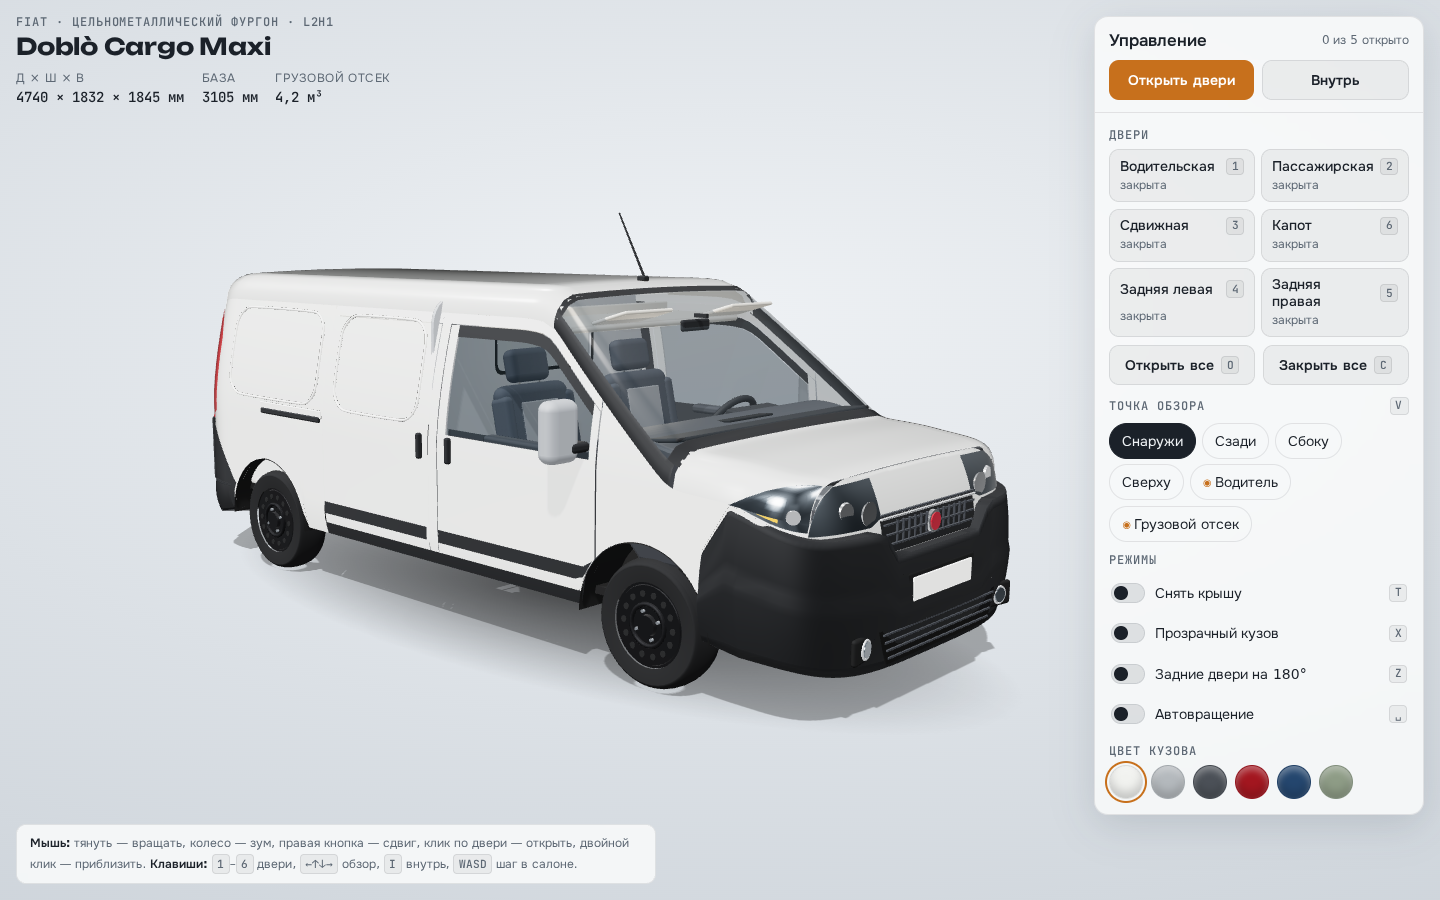
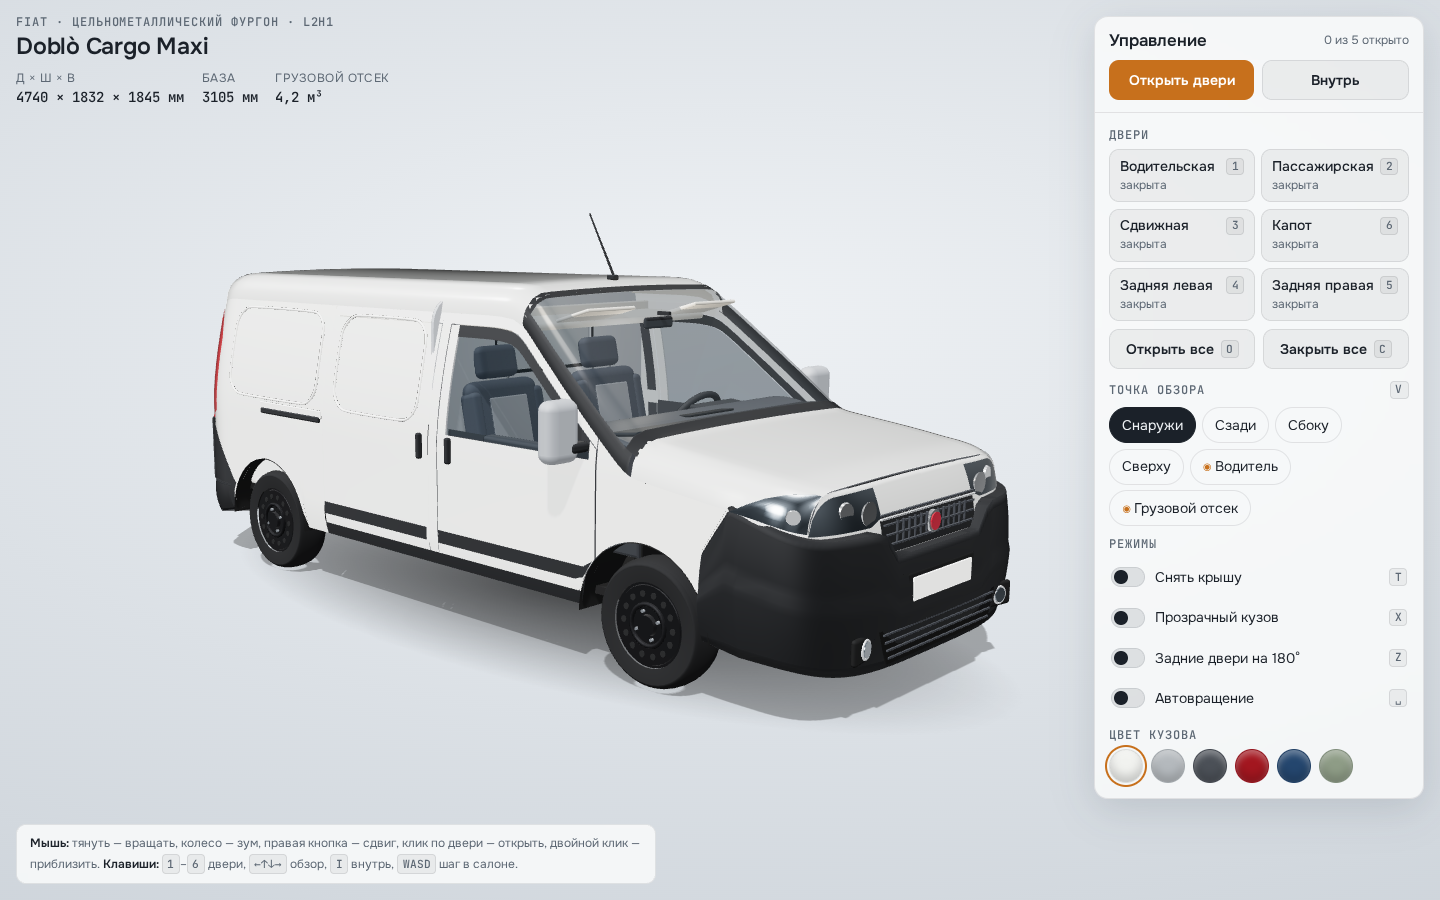
Move windshield, bonnet and cab to blueprint positions
The windshield is longer and more raked (2.9–3.72 m from the rear),
the bonnet shorter and slightly lower at the nose. The cab interior,
overhead shelf and interior viewpoints move back with it.

Claude-Session: https://claude.ai/code/session_01WEnvUqq9Q1ewvEPp3gbKib

diff --git a/js/car.js b/js/car.js
@@ -66,12 +66,12 @@ const topLine = smoothProfile(
   [
     [0.0, 1.815],
     [0.14, 1.842],
-    [2.95, 1.852],
-    [3.1, 1.835],
-    [3.97, 1.15],
-    [4.25, 1.135],
-    [4.6, 1.095],
-    [4.76, 1.04],
+    [2.72, 1.852],
+    [2.88, 1.835],
+    [3.72, 1.17],   // низ лобового стекла (по чертежу ~1,1 м от носа)
+    [4.1, 1.125],
+    [4.5, 1.075],
+    [4.76, 1.01],
   ],
   0.05,
   -0.1,
@@ -423,6 +423,8 @@ export function buildCar(M) {
   };
 
   const doors = {};
+  const X_RF = 2.9;  // передняя кромка крыши (верх лобового стекла)
+  const X_CW = 3.72; // стык лобового стекла с капотом
 
   // Выштамповка большой прямоугольной панели на глухой боковине (как на фото Doblò Cargo):
   // рельефный контур со скруглёнными углами, проложенный по поверхности кузова.
@@ -512,35 +514,35 @@ export function buildCar(M) {
   }
 
   // ----- крыша, лобовое стекло, капот
-  mesh(topGeo({ x0: 0, x1: 3.14, nu: 30, nv: 30 }), M.paint, roof);
+  mesh(topGeo({ x0: 0, x1: X_RF + 0.02, nu: 30, nv: 30 }), M.paint, roof);
   mesh(topGeo({ x0: 0.06, x1: X_B2 - 0.06, off: -0.03, s0: -0.93, s1: 0.93, nu: 10, nv: 20 }), M.paintInner, roof);
-  mesh(topGeo({ x0: 2.55, x1: 3.12, off: -0.03, s0: -0.93, s1: 0.93, nu: 6, nv: 20 }), M.headliner, roof);
-  mesh(topGeo({ x0: 3.14, x1: 3.95, s0: -0.9, s1: 0.9, nu: 20, nv: 24 }), M.glass, body, false);
-  mesh(topGeo({ x0: 3.12, x1: 3.97, s0: -1, s1: -0.9, nu: 20, nv: 4 }), M.plastic);
-  mesh(topGeo({ x0: 3.12, x1: 3.97, s0: 0.9, s1: 1, nu: 20, nv: 4 }), M.plastic);
-  mesh(topGeo({ x0: 3.12, x1: 3.16, s0: -0.9, s1: 0.9, nu: 1, nv: 24, off: 0.001 }), M.plastic);
-  mesh(topGeo({ x0: 3.93, x1: 4.0, s0: -0.9, s1: 0.9, nu: 2, nv: 24, off: 0.002 }), M.plastic);
+  mesh(topGeo({ x0: X_B2 - 0.06, x1: X_RF, off: -0.03, s0: -0.93, s1: 0.93, nu: 6, nv: 20 }), M.headliner, roof);
+  mesh(topGeo({ x0: X_RF + 0.02, x1: X_CW - 0.02, s0: -0.9, s1: 0.9, nu: 20, nv: 24 }), M.glass, body, false);
+  mesh(topGeo({ x0: X_RF, x1: X_CW, s0: -1, s1: -0.9, nu: 20, nv: 4 }), M.plastic);
+  mesh(topGeo({ x0: X_RF, x1: X_CW, s0: 0.9, s1: 1, nu: 20, nv: 4 }), M.plastic);
+  mesh(topGeo({ x0: X_RF, x1: X_RF + 0.04, s0: -0.9, s1: 0.9, nu: 1, nv: 24, off: 0.001 }), M.plastic);
+  mesh(topGeo({ x0: X_CW - 0.04, x1: X_CW + 0.03, s0: -0.9, s1: 0.9, nu: 2, nv: 24, off: 0.002 }), M.plastic);
   // антенна над лобовым стеклом
   {
-    const p = topPoint(3.0, 0, 0, new THREE.Vector3());
+    const p = topPoint(X_RF - 0.12, 0, 0, new THREE.Vector3());
     const ant = mesh(new THREE.CylinderGeometry(0.004, 0.007, 0.4, 8), M.plastic, roof);
-    ant.position.set(2.92, p.y + 0.18, 0);
+    ant.position.set(X_RF - 0.2, p.y + 0.18, 0);
     ant.rotation.z = 0.5;
-    box(0.06, 0.03, 0.04, 0.01, M.plastic, 3.0, p.y + 0.01, 0, roof);
+    box(0.06, 0.03, 0.04, 0.01, M.plastic, X_RF - 0.12, p.y + 0.01, 0, roof);
   }
 
   // капот — открывается
   {
     const pivot = new THREE.Group();
-    const px = 3.99;
+    const px = X_CW + 0.02;
     const py = topLine(px);
     pivot.position.set(px, py, 0);
     const inner = new THREE.Group();
     inner.position.set(-px, -py, 0);
     pivot.add(inner);
-    const hood = mesh(topGeo({ x0: 3.99, x1: NOSE_SEAM, nu: 24, nv: 30 }), M.paint, inner);
+    const hood = mesh(topGeo({ x0: X_CW + 0.02, x1: NOSE_SEAM, nu: 24, nv: 30 }), M.paint, inner);
     hood.userData.part = true;
-    const under = mesh(topGeo({ x0: 4.03, x1: NOSE_SEAM - 0.03, off: -0.025, s0: -0.9, s1: 0.9, nu: 12, nv: 16 }), M.plasticMid, inner);
+    const under = mesh(topGeo({ x0: X_CW + 0.06, x1: NOSE_SEAM - 0.03, off: -0.025, s0: -0.9, s1: 0.9, nu: 12, nv: 16 }), M.plasticMid, inner);
     body.add(pivot);
     doors.hood = {
       id: 'hood', name: 'Капот', key: '6', object: pivot, max: 1,
@@ -818,7 +820,7 @@ export function buildCar(M) {
   }
 
   // моторный щит
-  box(0.05, 0.6, 1.62, 0, M.rubber, 3.97, 0.72, 0, interior);
+  box(0.05, 0.6, 1.62, 0, M.rubber, X_CW - 0.02, 0.72, 0, interior);
 
   // ----- колёса
   const wheels = new THREE.Group();
@@ -1017,6 +1019,7 @@ export function buildCar(M) {
 
   // ---------------------------------------------------------------- кабина
   const cab = new THREE.Group();
+  cab.position.x = X_CW - 3.97; // интерьер построен от стыка стекла 3,97 м
   interior.add(cab);
   {
     // торпедо: профиль в плоскости (x,y), вытянутый по ширине
@@ -1158,10 +1161,10 @@ export function buildCar(M) {
       v.rotation.z = 0.28;
     }
     // полка над кабиной
-    box(0.55, 0.04, 1.5, 0.02, M.headliner, 2.8, 1.63, 0, roof);
-    box(0.03, 0.08, 1.5, 0.01, M.headliner, 2.53, 1.66, 0, roof);
+    box(0.45, 0.04, 1.5, 0.02, M.headliner, X_RF - 0.3, 1.63, 0, roof);
+    box(0.03, 0.08, 1.5, 0.01, M.headliner, X_RF - 0.52, 1.66, 0, roof);
     // плафон
-    box(0.12, 0.02, 0.2, 0.01, M.led, 3.05, 1.8, 0, roof);
+    box(0.12, 0.02, 0.2, 0.01, M.led, X_RF - 0.12, 1.8, 0, roof);
   }
 
   // плафон грузового отсека

diff --git a/js/main.js b/js/main.js
@@ -142,8 +142,8 @@ const VIEWS = {
   rear: { label: 'Сзади', cam: W(-3.4, 1.75, 1.2), target: W(1.3, 0.95, 0), open: ['rl', 'rr'] },
   side: { label: 'Сбоку', cam: W(2.0, 1.55, 4.2), target: W(1.75, 0.95, 0), open: ['sr', 'fr'] },
   top: { label: 'Сверху', cam: W(CX + 0.6, 6.4, 0.9), target: W(CX, 0.6, 0), roofOff: true },
-  driver: { label: 'Водитель', inside: true, pos: W(2.74, 1.47, -0.42), yaw: 0.05, pitch: -0.13 },
-  sleeper: { label: 'Грузовой отсек', inside: true, pos: W(2.44, 1.45, 0.05), yaw: Math.PI, pitch: -0.28 },
+  driver: { label: 'Водитель', inside: true, pos: W(2.49, 1.47, -0.42), yaw: 0.05, pitch: -0.13 },
+  sleeper: { label: 'Грузовой отсек', inside: true, pos: W(2.3, 1.45, 0.05), yaw: Math.PI, pitch: -0.28 },
 };
 
 let mode = 'outside';

diff --git a/README.md b/README.md
@@ -20,7 +20,7 @@ python3 -m http.server 8080
 
 - **Кузов** собран из параметрических панелей по реальным габаритам: 4740 × 1832 × 1845 мм, база 3105 мм. Кузов полый, поэтому салон видно через стёкла и проёмы.
 - **Двери:** две передние распашные, одна глухая сдвижная справа (сначала отходит наружу, потом едет назад по направляющей), глухие задние распашные с открытием на 90° или 180° (левая створка шире, на ней номер и ручка), капот. Слева глухая боковина с лючком бензобака.
-- **Пропорции сверены с чертежом Fiat Doblò 2015 Cargo LWB** (виды сбоку, спереди, сзади и сверху): завал боковин (крыша ≈1,45 м при ширине 1,83 м), стойка B в 2,36 м от кормы, сдвижная дверь 1,32–2,29 м, фары на 0,87–1,1 м, решётка под кромкой капота, задний проём и створки сужаются кверху по сечению кузова.
+- **Пропорции сверены с чертежом Fiat Doblò 2015 Cargo LWB** (виды сбоку, спереди, сзади и сверху): завал боковин (крыша ≈1,45 м при ширине 1,83 м), лобовое стекло от 2,9 до 3,72 м (длинное, сильно заваленное), стойка B в 2,36 м от кормы, сдвижная дверь 1,32–2,29 м, фары на 0,87–1,1 м, решётка под кромкой капота, задний проём и створки сужаются кверху по сечению кузова.
 - **Внешность по фото реальной машины:** большая выштамповка на боковинах, чёрные молдинги на дверях, объёмный чёрный передний бампер со скруглёнными углами, нишей под номер, воздухозаборником и противотуманками; крылья в плане повторяют форму бампера, фары огибают угол крыла; задний бампер с рифлёной ступенькой, датчиками парковки и катафотами, чёрные угловые накладки сзади, чёрные стальные диски без колпаков, антенна на крыше.
 - **Кабина:** торпедо с двумя большими и двумя малыми циферблатами, овальная центральная консоль с вертикальными дефлекторами, магнитолой и тремя ручками климата, руль с крупной подушкой, КПП, ручник, два сиденья с светлыми вставками и подлокотником, полка над лобовым стеклом, перегородка за кабиной с окном, обитая серым войлоком.
 - **Грузовой отсек:** пустой, без обшивки: окрашенный металл стен и крыши, силовые стойки и продольный брус, крючки для груза, каркас с замком на внутренней стороне задних дверей, резиновый пол с рифлением, проушины для крепления груза, кожухи колёсных арок, плафон.
